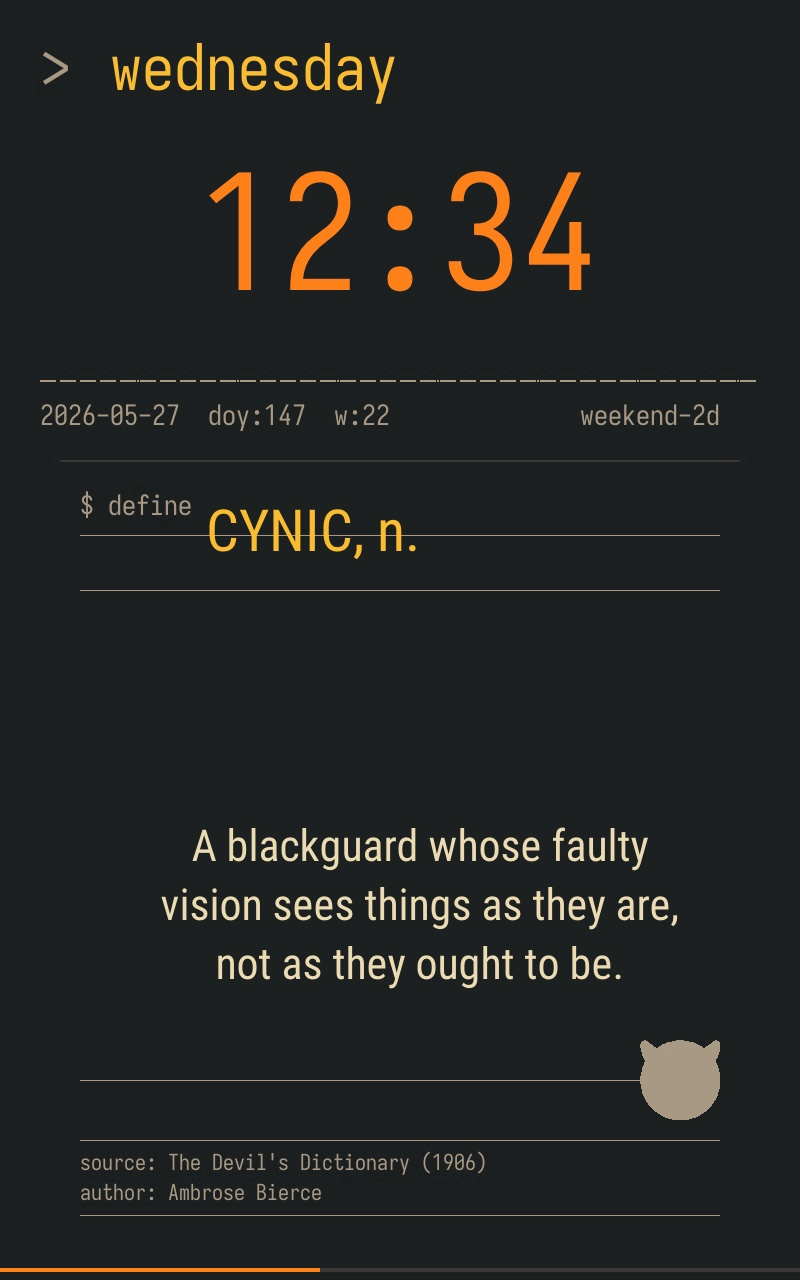
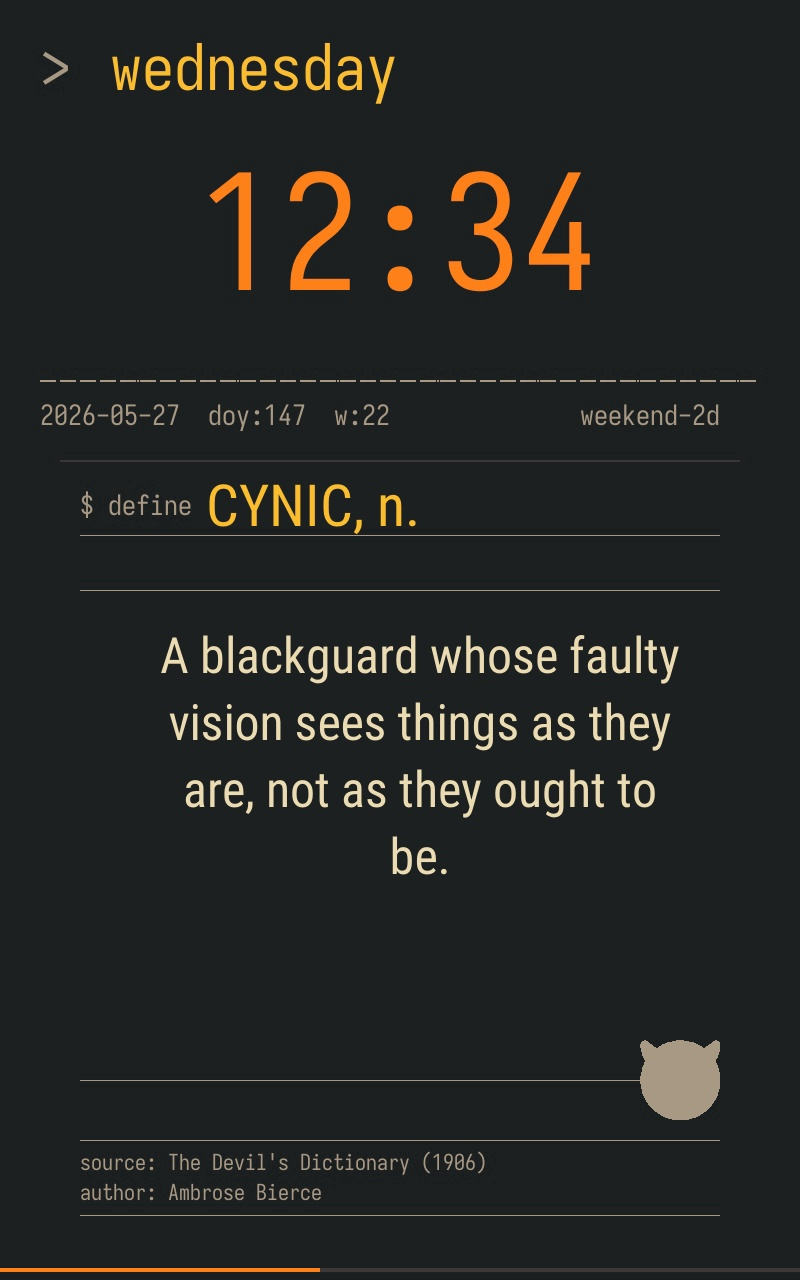
devil: baseline-align headword with prompt, top-anchor the body
Two layout fixes from a fresh eye on the screenshot:

- Headword StartY 490 → 465 so the 58pt "CYNIC, n." baseline lands
  at y=515 — the same baseline the baked Iosevka 28pt "$ define"
  prompt sits on. Both words read as one sentence.
- fitDevilBody is now top-anchored (was v-centred in the track),
  trackTop 780 → 620 so short aphorisms sit right under the bg's
  top rule at y=590 instead of floating mid-track in dead air.
  Tier sizes lowered (60/44/32 → 50/38/28) so the headword stays
  the largest type on the page.

Changed region(s): [[0.1875, 0.5, 0.8438, 0.7812], [0.25, 0.375, 0.5312, 0.4375]]

diff --git a/cmd/divoom/scenes.go b/cmd/divoom/scenes.go
@@ -1495,14 +1495,23 @@ func dictionarySceneDevil(opts DictionarySceneOpts) *scene.Scene {
 	headwordX := dictionaryHeadwordX(opts.Name)
 	elements := []frame.DispElement{
 		{
+			// StartY=465 so the 58pt headword's baseline (≈y=515)
+			// aligns with the baked "$ define" prompt baseline at
+			// y=515 — both rendered words sit on the same line.
 			ID: idSceneSub1, Type: "Text",
-			StartX: headwordX, StartY: 490, Width: CanvasW - 80 - headwordX, Height: 60,
+			StartX: headwordX, StartY: 465, Width: CanvasW - 80 - headwordX, Height: 70,
 			Align: 0, FontSize: 58, FontID: fontProse,
 			FontColor: cYellow, BgColor: cBgHard,
 		},
 		{
+			// Body anchored at the top of the framed track (just
+			// below the bg's top rule at y=590) and runs downward.
+			// fitDevilBody picks the font size and writes StartY +
+			// Height for the wrap-aware tier; the body is v-top so
+			// short aphorisms sit right under the rule instead of
+			// floating mid-track.
 			ID: idSceneSub2, Type: "Text",
-			StartX: 160, StartY: 740, Width: 520, Height: 320,
+			StartX: 160, StartY: 620, Width: 520, Height: 440,
 			Align: 2, FontSize: 50, FontID: fontProse,
 			FontColor: cFg, BgColor: cBgHard,
 		},
@@ -1661,12 +1670,13 @@ func wordnikPosPron(raw string) (text, color string) {
 }
 
 // fitDevilBody auto-shrinks the punchline FontSize for long aphorisms.
-// Pattern: 60pt fits the ~95% of entries that are one or two sentences;
-// 44pt picks up the longer ones; 32pt covers the rare paragraph-length
-// entry so it doesn't clip. Vertically centres in the 280px track.
+// Pattern: 50pt fits ~95% of entries (one or two sentences); 38pt picks
+// up the longer ones; 28pt covers the rare paragraph-length entry so
+// it doesn't clip. Top-anchored — short aphorisms sit right under the
+// bg's top rule rather than floating mid-track in dead space.
 func fitDevilBody(text string, e frame.DispElement) frame.DispElement {
 	const (
-		trackTop       = 780
+		trackTop       = 620
 		trackBottom    = 1060
 		charWidthRatio = 0.45 // px per char ≈ FontSize * this
 		lineHeightFrac = 1.20
@@ -1677,8 +1687,10 @@ func fitDevilBody(text string, e frame.DispElement) frame.DispElement {
 		e.Height = trackH
 		return e
 	}
-	// Tier through 60 → 44 → 32 picking the largest that fits.
-	tiers := []int{60, 44, 32}
+	// Tier through 50 → 38 → 28 picking the largest that fits the
+	// track. 50pt is the new default (down from 60) so the headword
+	// stays the largest type on the page.
+	tiers := []int{50, 38, 28}
 	fs := tiers[len(tiers)-1]
 	rendered := trackH
 	for _, size := range tiers {
@@ -1698,13 +1710,12 @@ func fitDevilBody(text string, e frame.DispElement) frame.DispElement {
 		}
 	}
 	e.FontSize = fs
+	e.StartY = trackTop
 	if rendered >= trackH {
-		e.StartY = trackTop
 		e.Height = trackH
-		return e
+	} else {
+		e.Height = rendered
 	}
-	e.StartY = trackTop + (trackH-rendered)/2
-	e.Height = rendered
 	return e
 }
 